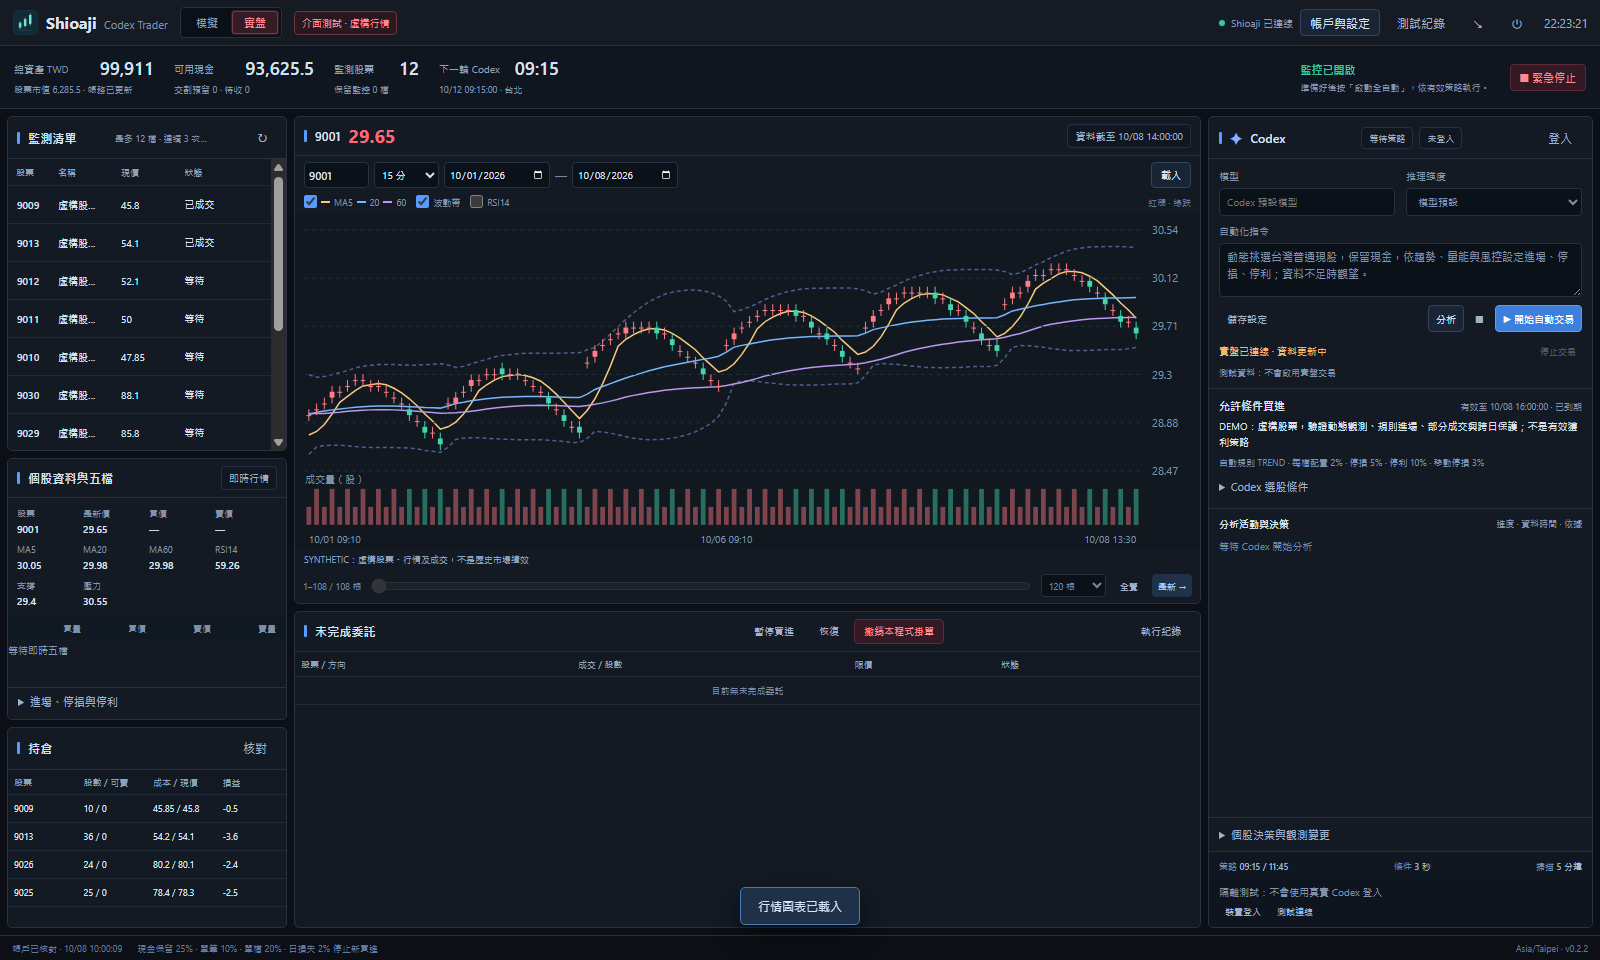
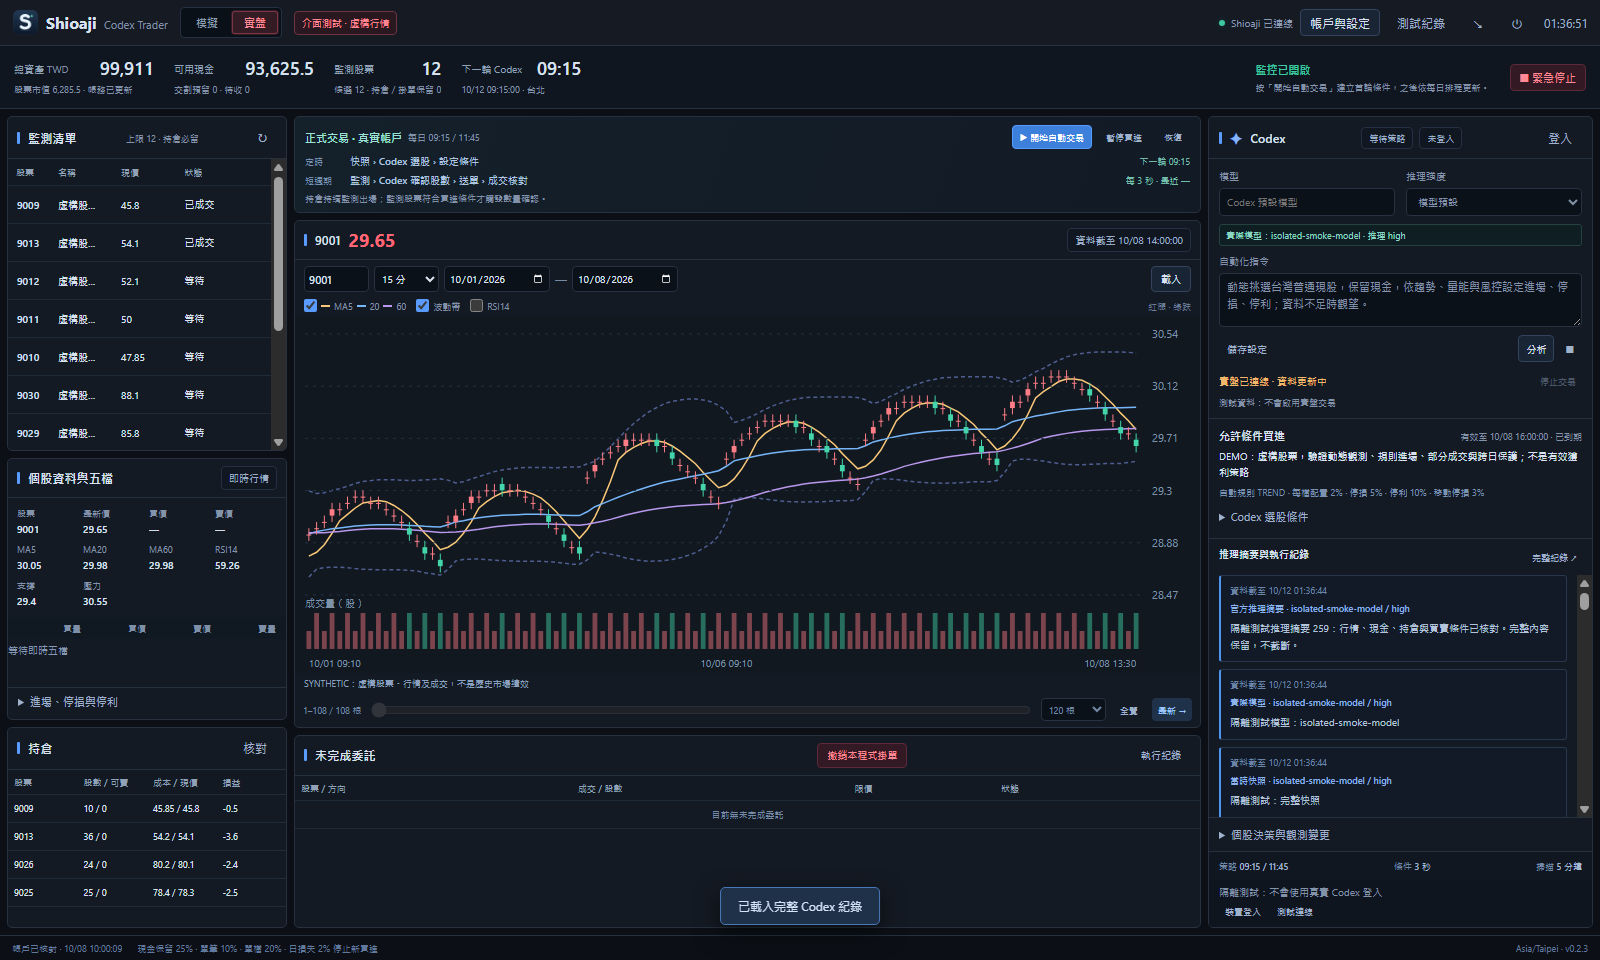
Keep inspected stock quotes current and refresh verified workspace previews

diff --git a/src/core/engine.ts b/src/core/engine.ts
@@ -39,6 +39,7 @@ export class Engine {
   private lastReconcile?: Date;
   private generation = -1;
   private metadataDay = '';
+  private inspectedSymbol='';
   private recent: string[] = [];
   constructor(readonly store: Store, readonly broker: Broker, public settings: Settings, readonly calendar: TradingCalendar) {
     this.risk = new Risk(settings,calendar); this.plan = store.plan();
@@ -142,11 +143,19 @@ export class Engine {
   baseline(now: Date): string | undefined { return this.store.get<{equity:string}>('baseline_' + twDay(now))?.equity; }
   async updateSubscriptions(now: Date): Promise<void> {
     const symbols = new Set(this.store.protections().map(p => p.symbol));
+    if(this.inspectedSymbol)symbols.add(this.inspectedSymbol);
     this.account?.positions.forEach(p => symbols.add(p.symbol)); this.store.orders(true).forEach(o => symbols.add(o.symbol));
     this.plan?.analysis.candidates.forEach(s => symbols.add(s)); this.plan?.analysis.decisions.forEach(d => symbols.add(d.symbol));
     this.watch.entries.forEach(w=>symbols.add(w.symbol));
     const list = [...symbols]; await this.broker.subscribe(list,this.settings.whole_lots);
     this.metadata = await this.broker.instruments(list,now); this.metadataDay = twDay(now);
+  }
+  /** Viewing an extra stock subscribes quotes without changing watch eligibility or strategy. */
+  async inspectSymbol(symbol:string,now:Date):Promise<void>{
+    if(!/^[1-9]\d{3}$/.test(symbol))throw new Error('圖表股票代碼不合法');
+    if(this.inspectedSymbol===symbol&&this.metadata[symbol])return;
+    const old=this.inspectedSymbol;this.inspectedSymbol=symbol;
+    try{await this.updateSubscriptions(now);}catch(error){this.inspectedSymbol=old;this.metadataDay='';throw error;}
   }
   async collectBundle(now: Date): Promise<Bundle> {
     const pool = await this.broker.discover(this.settings.candidate_pool_size,now);

diff --git a/tests/two-stage-trading.test.ts b/tests/two-stage-trading.test.ts
@@ -166,3 +166,13 @@ test('realtime paper panes keep current account, conditions and Codex events eve
     analyst_events:[{context:'live',asof:now.toISOString(),stage:'MODEL'},{context:'replay',asof:'2026-01-05T01:00:00Z',stage:'MODEL'}]} as unknown as DesktopState;
   assert.equal(workspaceRuntime(state),live);assert.equal(workspaceEvents(state).length,1);assert.equal(workspaceEvents(state)[0]!.context,'live');
 });
+test('inspecting a stock outside the watchlist subscribes its quotes without authorizing a trade or accumulating old inspections',async()=>{
+  const r=await enabled();try{
+    const subscribed:string[][]=[],read=r.broker.subscribe.bind(r.broker);
+    r.broker.subscribe=async(symbols,whole)=>{subscribed.push([...symbols]);await read(symbols,whole);};
+    const watch=structuredClone(r.engine.watch),plan=structuredClone(r.engine.plan);
+    await r.engine.inspectSymbol('9008',now);assert.ok(subscribed.at(-1)!.includes('9008'));assert.ok(r.engine.metadata['9008']);
+    await r.engine.inspectSymbol('9009',now);assert.ok(subscribed.at(-1)!.includes('9009'));assert.equal(subscribed.at(-1)!.includes('9008'),false);
+    assert.deepEqual(r.engine.watch,watch);assert.deepEqual(r.engine.plan,plan);assert.equal(r.engine.pendingExecutions.size,0);assert.equal(r.store.orders().length,0);
+  }finally{await dispose(r);}
+});

diff --git a/src/desktop/main.ts b/src/desktop/main.ts
@@ -297,7 +297,8 @@ function registerIpc(): void {
     const request=ChartRequestSchema.parse(value);if(request.source==='replay'||smoke)return backtest.chart({...request,source:'replay'});
     if(!nativeConnection.connected&&!smoke)throw new Error('圖表需要先連接 Shioaji 真實行情');
     if(chartBusy)throw new Error('圖表資料正在載入');chartBusy=true;
-    try{return await liveChart(request,service!.engine.settings,join(dataRoot,'backtests','cache'),chartAbort.signal);}
+    try{const selected=service!;await selected.enqueue(()=>selected.engine.inspectSymbol(request.symbol,new Date()));
+      return await liveChart(request,selected.engine.settings,join(dataRoot,'backtests','cache'),chartAbort.signal);}
     finally{chartBusy=false;}
   });
   handle('trader:replay-control',value=>backtest.control(z.enum(['pause','resume','step']).parse(value)));

diff --git a/docs/RELEASE_NOTES.md b/docs/RELEASE_NOTES.md
@@ -6,6 +6,7 @@
 - Codex 數量等待不占用監控佇列；成交核對、暫停與緊急停止持續可用。停止、條件反轉、策略到期、設定或連線變更會使舊數量建議作廢。HOLD 與拒絕結果採冷卻重試，未知委託不重送。
 - 歷史回放也完整等待每次數量確認，不跳過步驟；呼叫預算包含選股、股數確認及檢討。即時模擬與回測的賣款均到 T+2 才可再使用。
 - 模型留空時透過官方 model/list 解析實際預設模型並明確指定，顯示模型及推理強度。官方推理摘要、快照、完整 JSON、用量、策略與送單結果保存，可搜尋、查看完整紀錄與匯出；畫面只載入近期活動，完整快照按需載入。
+- Codex 活動更新保留正在展開的快照與閱讀位置；手動查看監測清單外的股票會同步訂閱行情與五檔，不會因此加入交易候選。
 - 記住的 API Key、Secret Key 與 CA 密碼會自動填回密碼欄位；未儲存輸入保留，清除記憶同步清空欄位。秘密不放進狀態輪詢、Codex 輸入或交易紀錄。
 - 重新設計工作列與系統匣圖示，增加待命、執行、暫停和離線狀態；系統匣及 Windows 工作列同步顯示狀態。
 - 新增股數確認、現金變更、條件失效、緊急停止、未知送單、零股隔日出場、模型目錄、完整紀錄及回放等待測試；Windows 原始與打包程式驗證三種工作台、三種解析度、圖表操作、加密欄位與完整紀錄。
